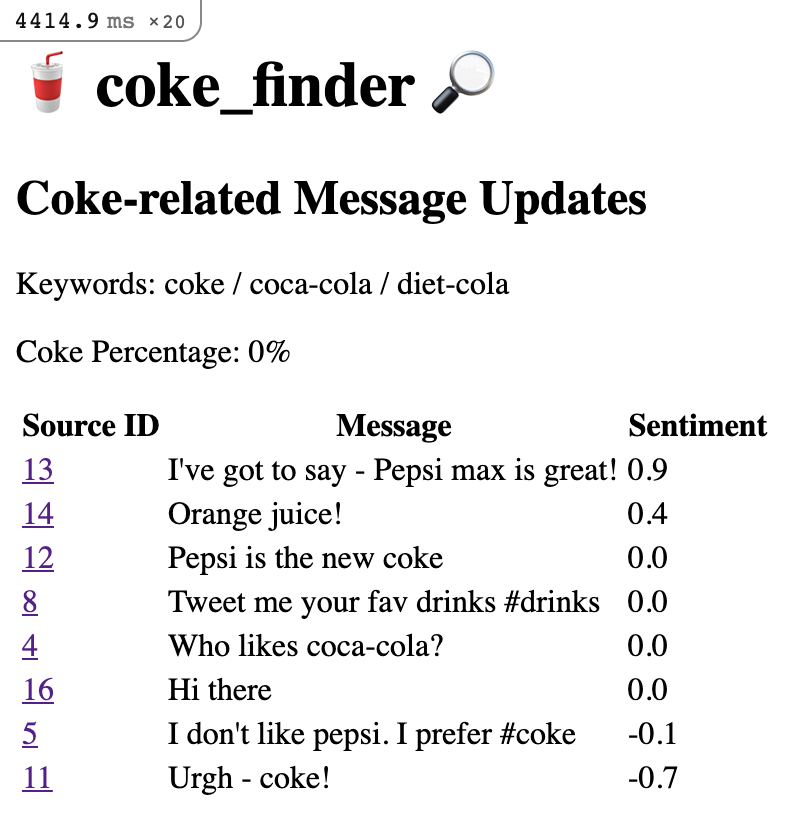
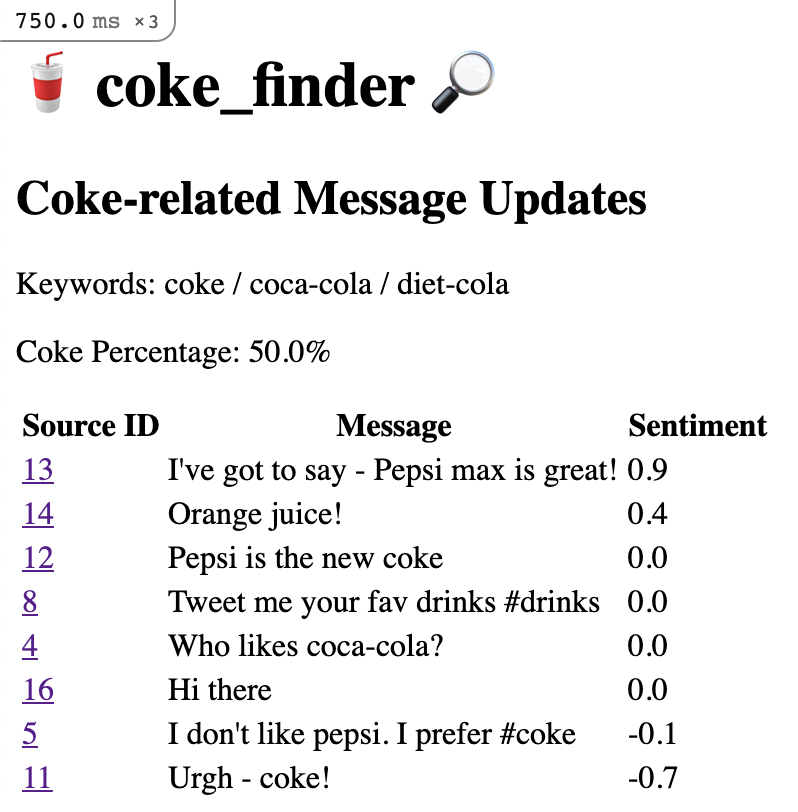
Fix percentage update glitch

diff --git a/app/controllers/home_controller.rb b/app/controllers/home_controller.rb
@@ -2,10 +2,13 @@ class HomeController < ApplicationController
   def index
     @updates = Update.all.order(sentiment: :desc)
 
-    total = Update.all.count
+    total = 0.0
+    total += Update.all.count
+
     coke = Update.all.where("message LIKE ?", "%coke%").count
     coke += Update.all.where("message LIKE ?", "%coca-cola%").count
     coke += Update.all.where("message LIKE ?", "%diet-cola%").count
+
     @coke_percentage = coke / total * 100
   end
 
